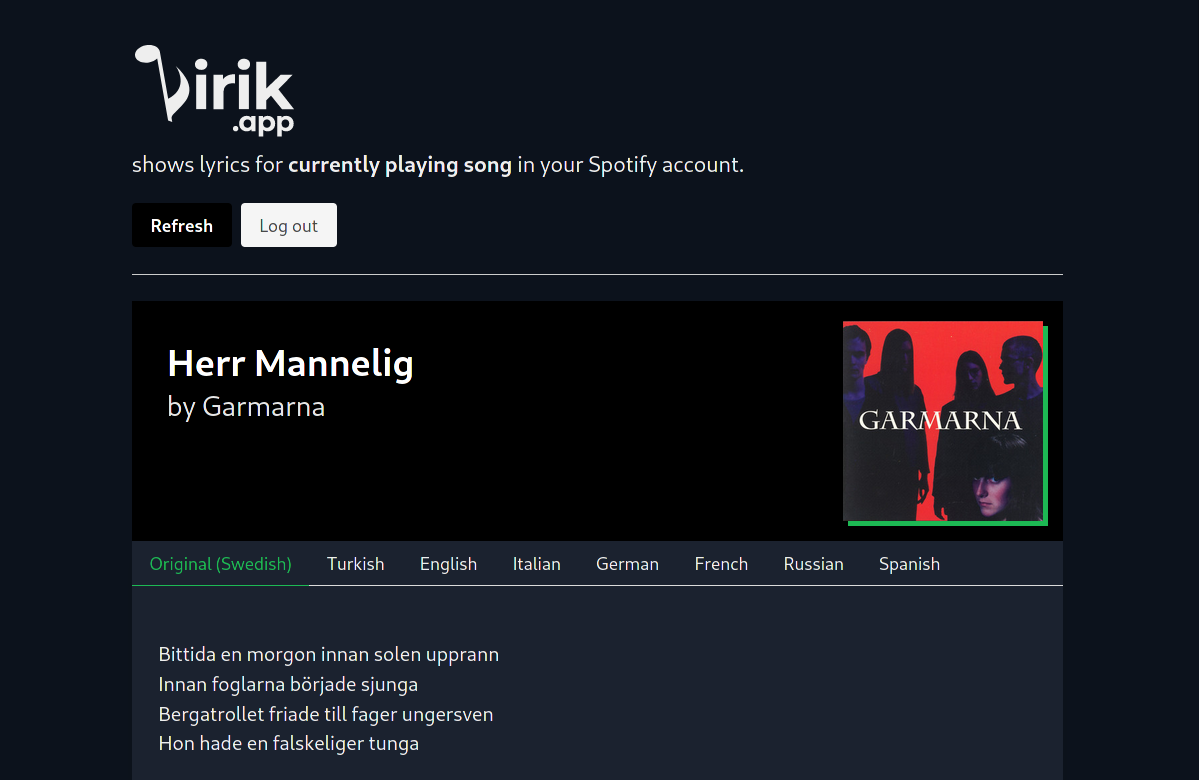
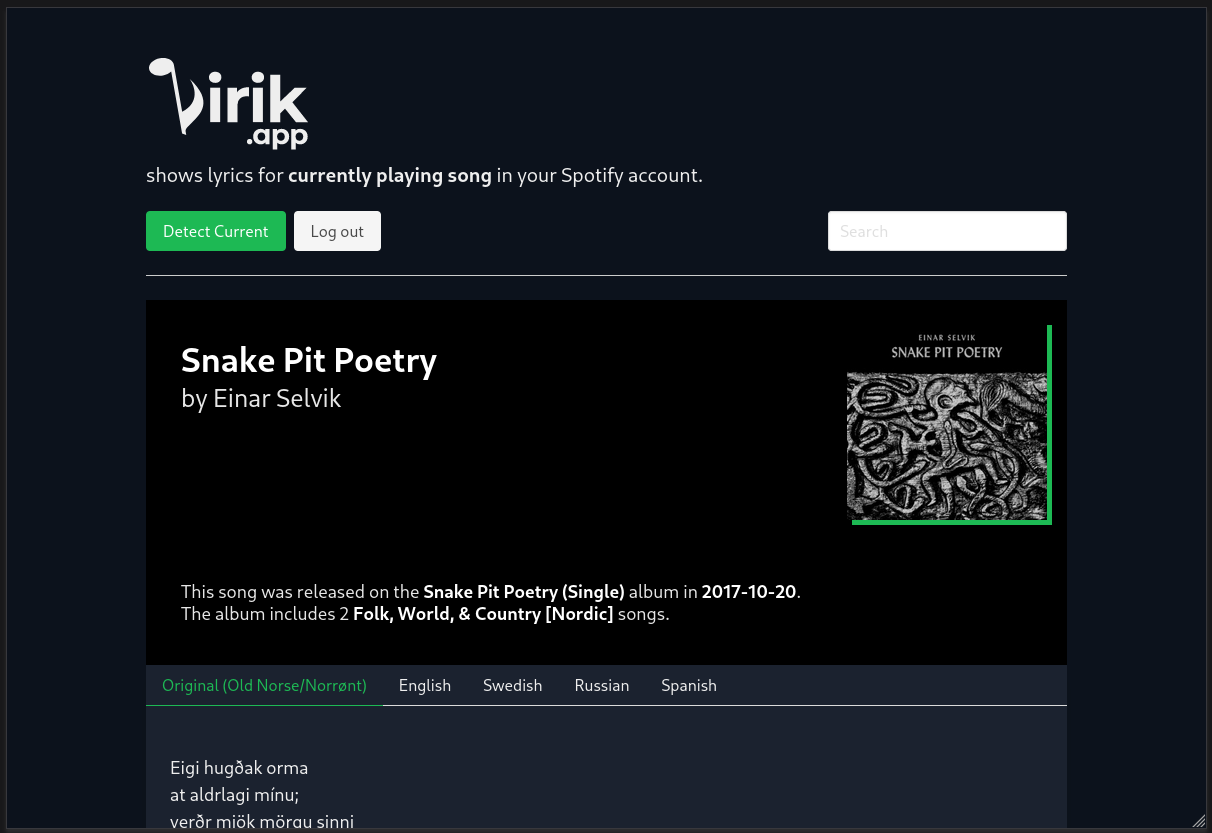
add meta

Changed region(s): [[0.0, 0.0615, 0.8949, 1.0], [0.6789, 0.2462, 0.8949, 0.3077], [0.8949, 0.9538, 1.0, 1.0]]

diff --git a/views/partials/footer_partial.html b/views/partials/footer_partial.html
@@ -14,7 +14,8 @@
 				</p>
 				<hr class="grey">
 				<p>
-					The lyrics are taken either from  <a href="https://lyricstranslate.com/">lyricstranslate.com</a> or <a href="https://genius.com/">genius.com</a>.<br>
+					Lyrics are taken either from  <a href="https://lyricstranslate.com/">lyricstranslate.com</a> or <a href="https://genius.com/">genius.com</a>.<br>
+					Additional informations are mostly taken from <a href="https://discogs.com">discogs.com</a>.<br>
 					Huge thanks to them.
 				</p>
 				<hr class="grey">

diff --git a/views/songs.html b/views/songs.html
@@ -17,6 +17,16 @@
 				</p>
 			</div>
 		</div>
+		<div class="hero-body song-body">
+			<div class="song-info">
+				<p class="subtitle song-subtitle song-meta">
+					This song was released on the <strong>{{.Song.AlbumName}}</strong> album in
+					<strong>{{.Song.AlbumReleaseDate}}</strong>.
+					<br>
+					The album includes {{.Song.AlbumTotalTracks}} <strong>{{.Song.AlbumGenre}}</strong> songs.
+				</p>
+			</div>
+		</div>
 	</section>
 
 	<div class="card">

diff --git a/assets/stylesheet/main.css b/assets/stylesheet/main.css
@@ -112,6 +112,12 @@ a.button.is-primary:hover {
   color: grey;
 }
 
+.song-meta {
+  width: 80%;
+  color: grey;
+  font-size: 1em !important;
+}
+
 .card {
   color: #eee;
   background-color: #1b222f;

diff --git a/assets/sw.js b/assets/sw.js
@@ -1,0 +1,1 @@
+navigator.serviceWorker.getRegistrations().then( function(registrations) { for(let registration of registrations) { registration.unregister(); } }); 

diff --git a/pkg/meta/first_source.go b/pkg/meta/first_source.go
@@ -1,0 +1,89 @@
+package meta
+
+import (
+	"fmt"
+	"net/url"
+	"regexp"
+	"strings"
+
+	"github.com/boratanrikulu/lirik.app/pkg/meta/constants"
+	"github.com/gocolly/colly/v2"
+)
+
+type firstSource struct{}
+
+func newFirstSource() *firstSource {
+	return &firstSource{}
+}
+
+func (f *firstSource) GetMeta(artistName string, albumName string) (found bool, meta Meta) {
+	albumName = albumRegex(albumName)
+	u, _ := url.Parse(constants.FirstSource + "/search")
+	q, _ := url.ParseQuery(u.RawQuery)
+
+	q.Add("title", albumName)
+	q.Add("artist", artistName)
+	q.Add("type", "all")
+	u.RawQuery = q.Encode()
+
+	albumLink := ""
+	c := colly.NewCollector()
+	c.OnHTML(
+		`#search_results div[data-object-type]:first-child a[href].search_result_title:first-child`,
+		func(e *colly.HTMLElement) {
+			albumLink = e.Attr("href")
+		},
+	)
+	c.Visit(fmt.Sprint(u))
+	if albumLink == "" {
+		return false, meta
+	}
+
+	cc := colly.NewCollector()
+	cc.OnHTML(
+		`div.profile`,
+		func(e *colly.HTMLElement) {
+			texts := e.ChildTexts("div")
+			for i, text := range texts {
+				if text == "Genre:" && i+1 < len(texts) {
+					meta.Genre = texts[i+1]
+				}
+				if text == "Style:" && i+1 < len(texts) {
+					meta.Style = texts[i+1]
+				}
+			}
+		},
+	)
+	cc.OnHTML(
+		`table.table_1fWaB tbody tr`,
+		func(e *colly.HTMLElement) {
+			if e.ChildText("th") == "Genre:" {
+				meta.Genre = e.ChildText("td")
+			}
+			if e.ChildText("th") == "Style:" {
+				meta.Style = e.ChildText("td")
+			}
+		},
+	)
+	cc.Visit(constants.FirstSource + albumLink)
+	if meta.Genre == "" {
+		return false, meta
+	}
+
+	return true, meta
+}
+
+func albumRegex(album string) string {
+	regexList := []string{
+		` - .+`,
+		`(?i)\(.*\)`,
+	}
+
+	for _, value := range regexList {
+		re := regexp.MustCompile(value)
+		album = re.ReplaceAllString(album, "")
+	}
+
+	album = strings.TrimSpace(album)
+	return album
+}

diff --git a/pkg/meta/local_source.go b/pkg/meta/local_source.go
@@ -1,0 +1,58 @@
+package meta
+
+import (
+	"encoding/json"
+	"log"
+	"os"
+	"strings"
+)
+
+type localSource struct{}
+
+func newLocalSource() *localSource {
+	return &localSource{}
+}
+
+func (f *localSource) GetMeta(artistName string, albumName string) (found bool, meta Meta) {
+	fileName := getFileName(artistName, albumName)
+	file, err := os.Open(fileName)
+	if err != nil {
+		return
+	}
+	defer file.Close()
+
+	err = json.NewDecoder(file).Decode(&meta)
+	if err != nil {
+		return
+	}
+
+	return true, meta
+}
+
+func getFileName(artist string, albumName string) string {
+	fileName := artist + "-" + albumName + ".meta"
+	fileName = strings.ReplaceAll(fileName, "/", "_")
+	fileName = strings.ReplaceAll(fileName, "\\", "_")
+	fileName = "./database/lyrics/" + fileName
+
+	return fileName
+}
+
+func saveToFile(artistName, albumName string, m Meta) {
+	fileName := getFileName(artistName, albumName)
+	f, err := os.Create(fileName)
+	if err != nil {
+		log.Println(err)
+		return
+	}
+	defer f.Close()
+
+	b, _ := json.Marshal(m)
+	_, err = f.Write(b)
+	if err != nil {
+		log.Println(err)
+		return
+	}
+
+	log.Printf("[CREATED META] %s\n", fileName)
+}

diff --git a/pkg/meta/meta.go b/pkg/meta/meta.go
@@ -1,0 +1,57 @@
+package meta
+
+import "log"
+
+type Finder interface {
+	GetMeta(string, string) (bool, Meta)
+}
+
+type finder struct {
+	sources []source
+}
+
+type source struct {
+	name   string
+	maxTry int
+	f      Finder
+}
+
+func NewFinder() Finder {
+	return &finder{
+		sources: []source{
+			{
+				name:   "LOCAL",
+				maxTry: 1,
+				f:      newLocalSource(),
+			},
+			{
+				name:   "FIRST",
+				maxTry: 1,
+				f:      newFirstSource(),
+			},
+		},
+	}
+}
+
+type Meta struct {
+	Genre string
+	Style string
+}
+
+// GetMeta returns meta infos for the Album.
+func (f *finder) GetMeta(artistName string, albumName string) (found bool, meta Meta) {
+	for _, source := range f.sources {
+		for i := 0; i < source.maxTry; i++ {
+			if f, meta := source.f.GetMeta(artistName, albumName); f {
+				if source.name != "LOCAL" {
+					go saveToFile(artistName, albumName, meta)
+				}
+				log.Printf("[%s] [FOUND META] [x%d] %s", source.name, i+1, meta)
+				return true, meta
+			}
+		}
+	}
+
+	log.Printf("[ALL] [NOT FOUND META] \"%s by %s\"", albumName, artistName)
+	return false, meta
+}

diff --git a/pkg/meta/first_source_test.go b/pkg/meta/first_source_test.go
@@ -1,0 +1,15 @@
+package meta
+
+import (
+	"fmt"
+	"testing"
+)
+
+func TestGetMeta_firstSource(t *testing.T) {
+	finder := firstSource{}
+	found, meta := finder.GetMeta("Britney Spears", "Blackout")
+	if !found {
+		t.Fatalf("Not found")
+	}
+	fmt.Println(meta)
+}

diff --git a/pkg/spotify/song.go b/pkg/spotify/song.go
@@ -1,0 +1,10 @@
+package spotify
+
+type Song struct {
+	Name        string
+	ArtistName  string
+	AlbumName   string
+	AlbumImage  string
+	ReleaseDate string
+	TotalTracks int
+}

diff --git a/pkg/meta/constants/sources.go b/pkg/meta/constants/sources.go
@@ -1,0 +1,6 @@
+package constants
+
+const (
+	FirstSource     = "https://www.discogs.com"
+	FirstSourceBare = "discogs.com"
+)

diff --git a/README.md b/README.md
@@ -18,6 +18,9 @@ Automaticly detects currently playing song in your Spotify account.
 **Translations**  
 Shows translations for the lyrics.
 
+**Meta**  
+Shows additional informations for the song.
+
 **Fast**  
 Uses server side caching to improve the performance. By using this you make the site even faster.
 
